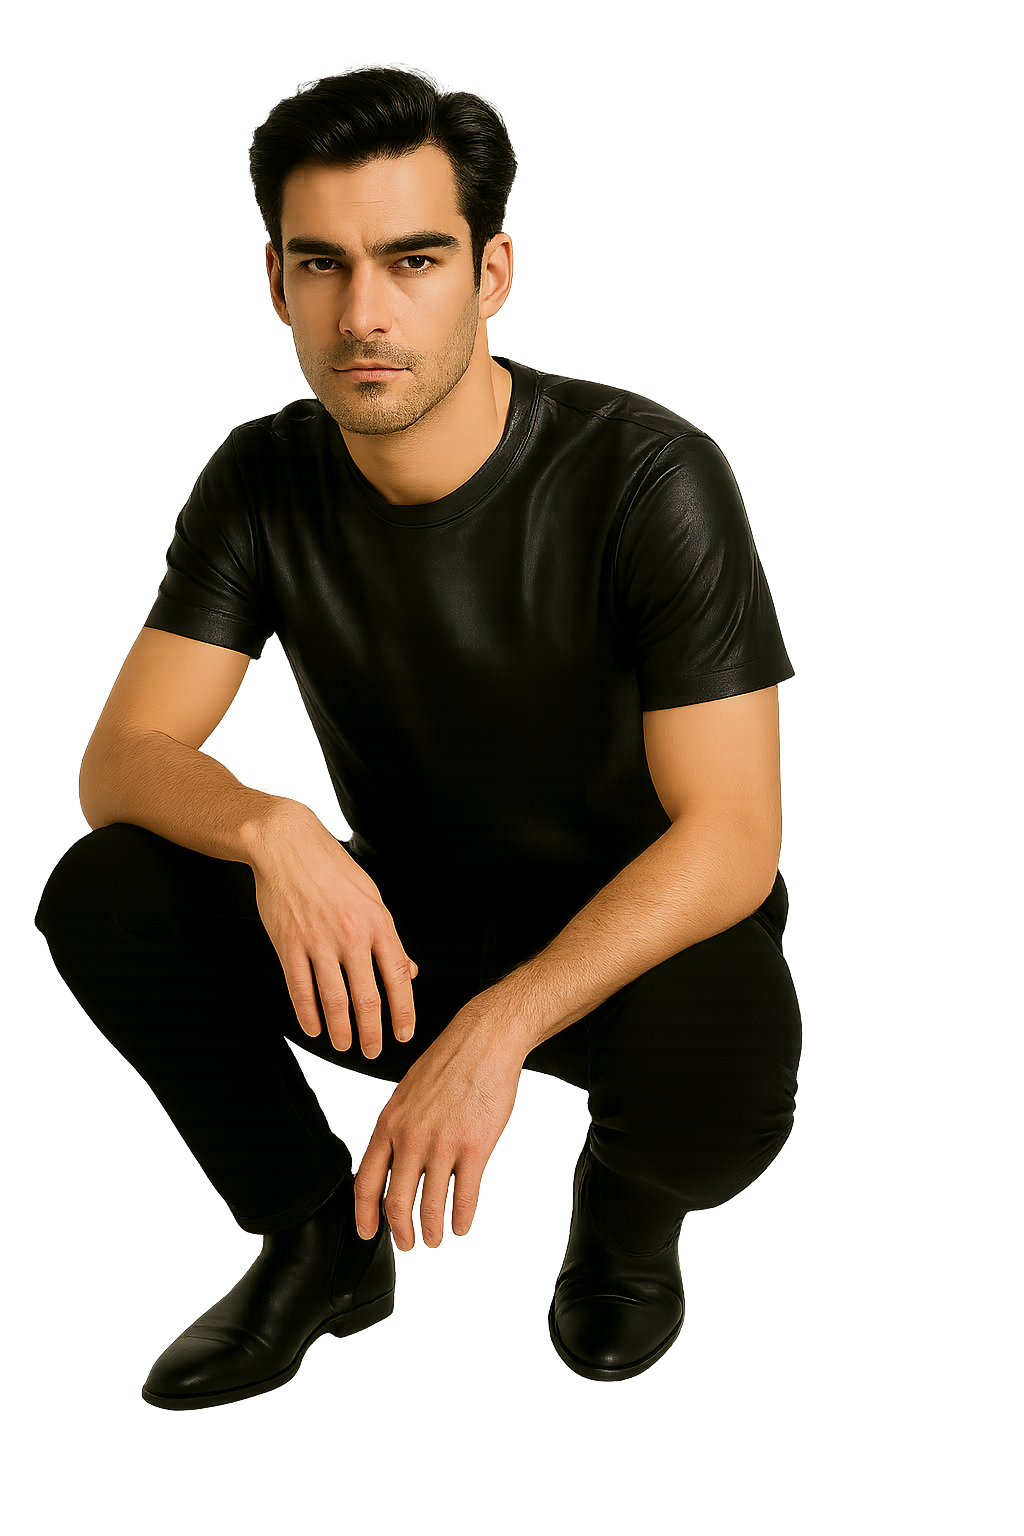
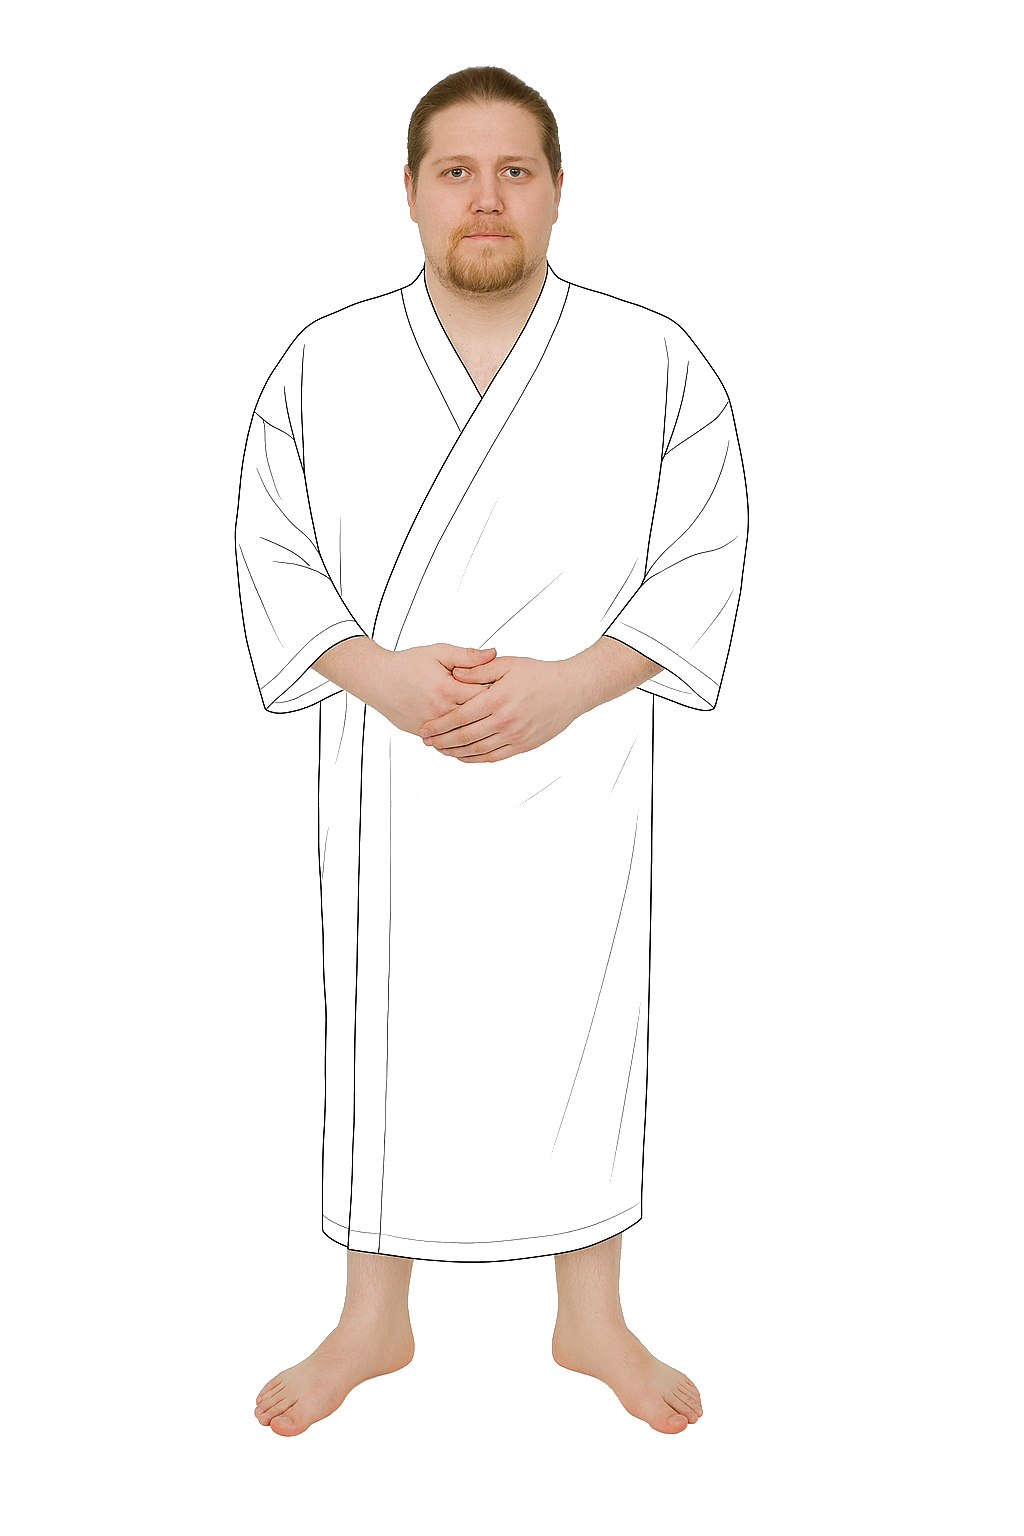
Fixed image issue and Added material selection

diff --git a/frontend/src/Views/InspectView.vue b/frontend/src/Views/InspectView.vue
@@ -6,17 +6,18 @@
                     v-for="(image, index) in productImages" 
                     :key="index"
                     :class="['thumbnail-item', { active: selectedImage === index }]"
-                    @click="selectedImage = index"
-                >
-                    <img :src="image" alt="Product thumbnail">
+                    :style="{ backgroundColor: selectedColor}"
+                    @click="selectedImage = index">
+                    <img :src="image" :alt="`Product thumbnail`">
                 </button>
             </div>
-            <div class="main-image">
-                <img :src="productImages[selectedImage]" alt="Product Image">
+            <div class="main-image" :style="{ backgroundColor: selectedColor, backgroundImage: materialBackgroundImage }">
+                <img :src="productImages[selectedImage]" :alt="`Product Image`">
             </div>
         </section>
         
         <aside class="product-details">
+            <h2 class ="product-style">{{ productData.style }}</h2>
             <h1 class="product-title">{{ productData.name }}</h1>
             <div class="product-rating">
                 <span class="stars">{{ '★'.repeat(productData.rating) + '☆'.repeat(5 - productData.rating) }}</span>
@@ -28,22 +29,42 @@
             </p>
             
             <ul class="product-features">
-                <li v-for="(feature, index) in productData.features" :key="index">{{ feature }}</li>
+                <li v-for="(feature, index) in productData.features" 
+                :key="index">{{ feature }}
+                </li>
             </ul>
             
             <div class="product-options">
                 <div class="color-selector">
                     <label>Color</label>
                     <div class="color-options">
-                        <button class ="color-btn" v-for="(color, index) in productData.colors" :key="index" :style="{ background: color }"></button>
+                        <button class ="color-btn" v-for="(color, index) in productData.colors" 
+                        :key="index" 
+                        :style="{ background: color }" 
+                        @click="activeColor($event, color)">
+                        </button>
                     </div>
                 </div>
+
+                <div class="material-selector">
+                    <label>Material</label>
+                        <div class="material-options">
+                            <button class ="material-btn" 
+                                v-for="(material, index) in productData.materials" 
+                                :key="index" 
+                                @click="activeMaterial($event, material)">{{ material }}
+                            </button>
+                        </div>
+                    </div>
                 
                 <div class="size-selector">
                     <label>Size</label>
-                    <div class="size-options">
-                        <button class ="size-btn" v-for="(size, index) in productData.sizes" :key="index">{{ size }}</button>
-                    </div>
+                        <div class="size-options">
+                            <button class ="size-btn" 
+                                v-for="(size, index) in productData.sizes" 
+                                :key="index" @click="activeSize">{{ size }}
+                            </button>
+                        </div>
                     <router-link :to="{ name: 'SizeCharts' }" class="size-guide">Size Guide</router-link>
                 </div>
             </div>
@@ -69,30 +90,84 @@
 </template>
 
 <script lang="ts" setup>
-import { ref } from 'vue'
+import { ref, computed } from 'vue'
+import productKimFront from '../Assets/Designer(5).png'
+import productKimLeft from '../Assets/Designer(6).png'
+import productKimBack from '../Assets/Designer(7).png'
+import productKimRight from '../Assets/Designer(8).png'
+import productKimDetail from '../Assets/Designer(9).png'
+// import materialCotton from '../Assets/Textures/material-cotton.png'
+// import materialPolyester from '../Assets/Textures/material-polyester.png'
+import materialWool from '../Assets/Textures/material-wool.png'
+// import materialSilk from '../Assets/Textures/material-silk.png'
+// import materialKevlar from '../Assets/Textures/material-kevlar.png'
 
 const selectedImage = ref(0)
+const selectedColor = ref('#f5f5f5')
+const selectedMaterial = ref('')
+
+const materialTextures: Record<string, string> = {
+    'Wool': materialWool,
+    // Add other materials here as their texture images become available
+    // 'Cotton': materialCotton,
+    // 'Polyester': materialPolyester,
+    // 'Silk': materialSilk,
+    // 'Kevlar': materialKevlar
+}
+
+const materialBackgroundImage = computed(() => {
+    if (selectedMaterial.value && materialTextures[selectedMaterial.value]) {
+        return `url(${materialTextures[selectedMaterial.value]})`
+    }
+    return 'none'
+})
+
+const activeColor = (event: Event, color: string) => {
+    const buttons = document.querySelectorAll('.color-btn')
+    buttons.forEach(btn => btn.classList.remove('active'))
+    const target = event.currentTarget as HTMLElement
+    target?.classList.add('active')
+    selectedColor.value = color
+}
+
+const activeSize = (event: Event) => {
+    const buttons = document.querySelectorAll('.size-btn')
+    buttons.forEach(btn => btn.classList.remove('active'))
+    const target = event.currentTarget as HTMLElement
+    target?.classList.add('active')
+}
+
+const activeMaterial = (event: Event, material: string) => {
+    const buttons = document.querySelectorAll('.material-btn')
+    buttons.forEach(btn => btn.classList.remove('active'))
+    const target = event.currentTarget as HTMLElement
+    target?.classList.add('active')
+    selectedMaterial.value = material
+}
+
 const productImages = [
-    '../Assets/Designer(5).png',
-    '../Assets/Designer(5).png',
-    '../Assets/Designer(5).png',
-    '../Assets/Designer(5).png',
-    '../Assets/Designer(5).png'
+    productKimFront,
+    productKimLeft,
+    productKimBack,
+    productKimRight,
+    productKimDetail
 ]
 
 // Mock product data - replace with API call later
 const productData = ref({
-    name: 'Product Name',
-    rating: 2,
-    reviewCount: 19,
+    name: 'Kyoto Signature',
+    style: 'Kimono',
+    rating: 5,
+    reviewCount: 200,
     description: 'Test',
+    materials: ['Cotton', 'Polyester', 'Wool', 'Silk', 'Kevlar'],
     features: [
         'Screen Print with Sleeve Graphics',
         '100% Cotton, Pre-Shrunk Jersey',
         'Ribbed Collar with Double Needle Stitching',
     ],
     price: 37.00,
-    colors: ['#FFFFFF', '#000000', '#FF0000', '#0000FF', '#008000', '#FFFF00'],
+    colors: ['#FFFFFF', '#000000', '#FF0000', '#0000FF', '#008000'],
     sizes: ['XS', 'S', 'M', 'L', 'XL', '2XL', '3XL']
 })
 
@@ -109,29 +184,29 @@ const productData = ref({
     gap: 3rem;
     padding: 2rem;
     max-width: 1400px;
-    margin: 0 auto;
 }
 
 .image-gallery {
     flex: 1;
     display: flex;
     gap: 1rem;
+    align-items: stretch;
 }
 
 .thumbnail-list {
     display: flex;
     flex-direction: column;
     gap: 0.5rem;
+    flex: 0 0 80px;
 }
 
 .thumbnail-item {
     width: 80px;
-    height: 80px;
+    flex: 1;
+    min-height: 0;
     border: 2px solid transparent;
     cursor: pointer;
     padding: 0;
-    background: white;
-    transition: border-color 0.2s;
 }
 
 .thumbnail-item:hover,
@@ -151,12 +226,12 @@ const productData = ref({
     display: flex;
     align-items: center;
     justify-content: center;
-    padding: 2rem;
 }
 
 .main-image img {
     max-width: 100%;
-    max-height: 600px;
+    /* max-height: 600px; */
+    max-height: 100%;
     object-fit: contain;
 }
 
@@ -165,6 +240,12 @@ const productData = ref({
     display: flex;
     flex-direction: column;
     gap: 1.5rem;
+}
+.product-style {
+    font-size: 1.2rem;
+    color: #666;
+    text-transform: uppercase;
+    margin: 0;
 }
 
 .product-title {
@@ -211,6 +292,7 @@ const productData = ref({
     margin-bottom: 0.5rem;
 }
 
+.material-options,
 .color-options,
 .size-options {
     display: flex;
@@ -218,6 +300,7 @@ const productData = ref({
     flex-wrap: wrap;
 }
 
+.material-btn,
 .color-btn,
 .size-btn {
     padding: 0.75rem 1.25rem;
@@ -228,6 +311,7 @@ const productData = ref({
     font-weight: 500;
 }
 
+.material-btn.active,
 .color-btn.active,
 .size-btn.active {
     border-color: #333;
@@ -255,7 +339,6 @@ const productData = ref({
     font-size: 1rem;
     font-weight: 600;
     cursor: pointer;
-    transition: background 0.3s;
 }
 
 .add-to-cart:hover {
